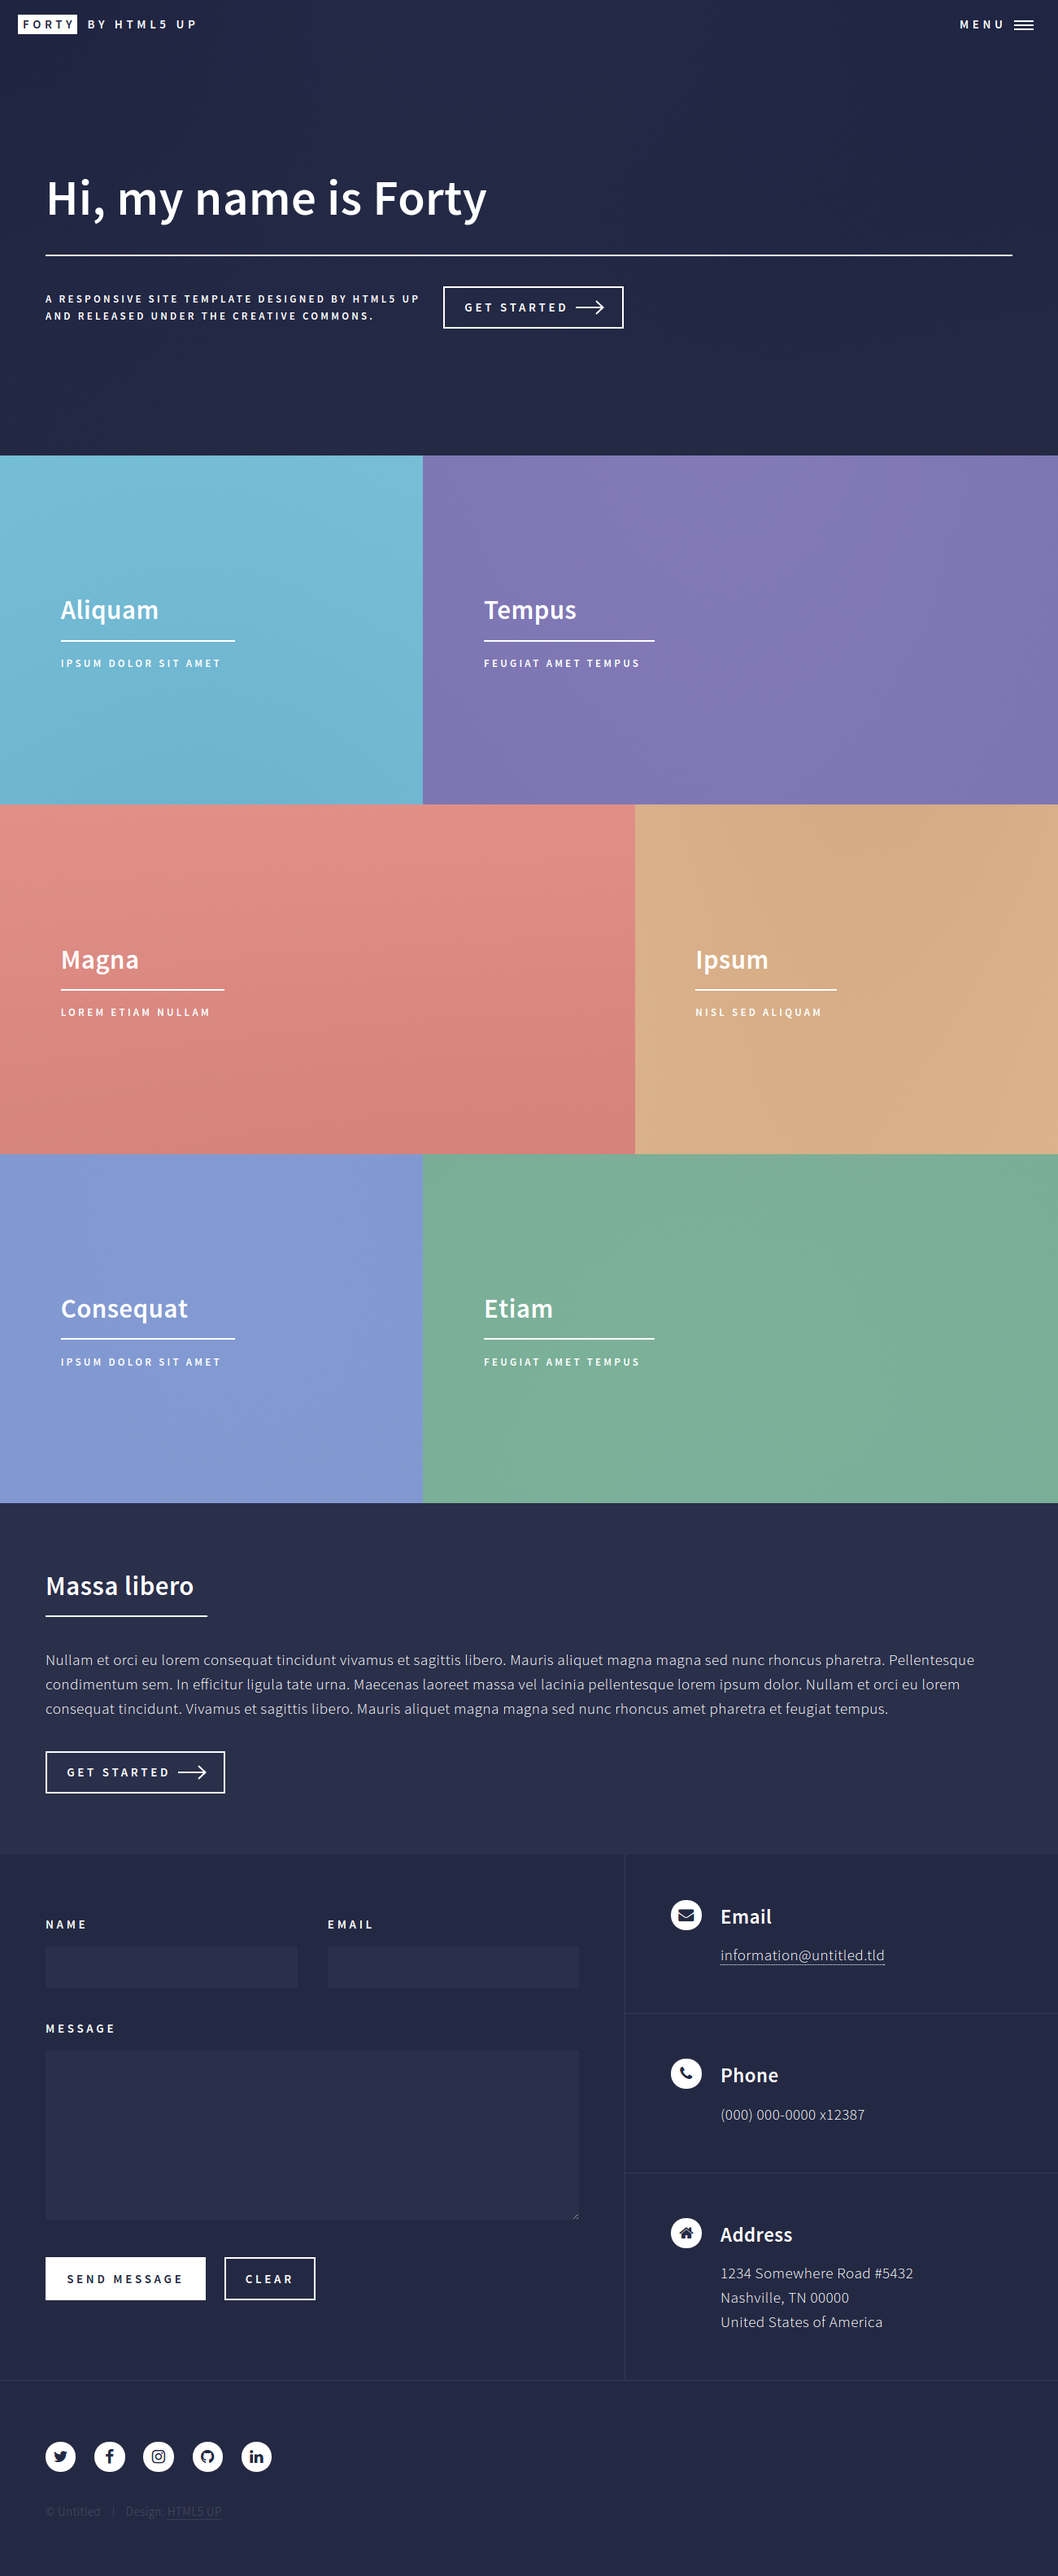
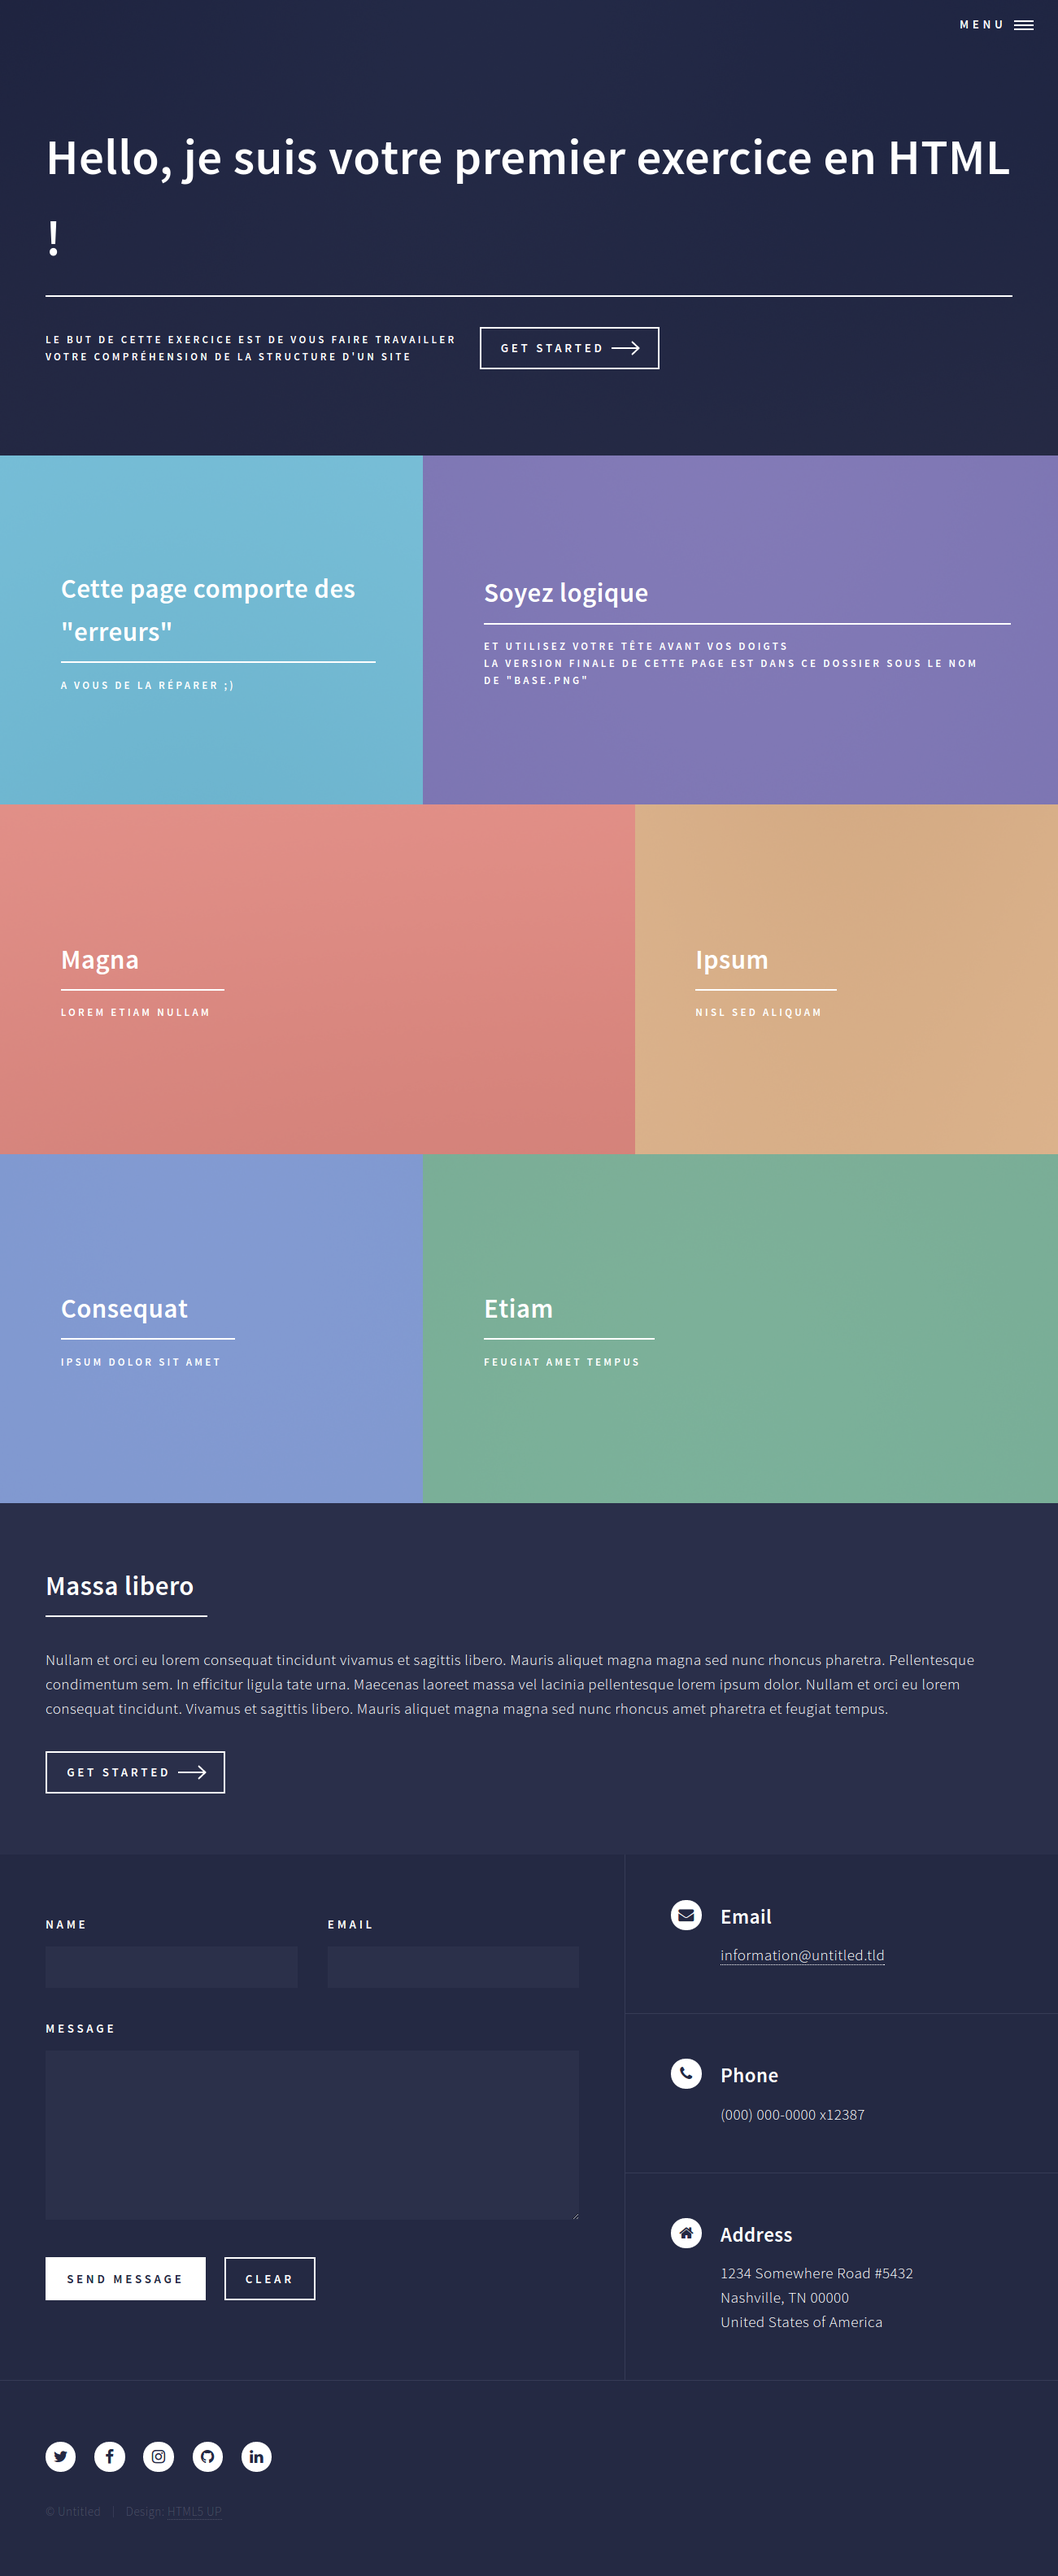
first page of exercice is done

diff --git a/index.html b/index.html
@@ -21,7 +21,6 @@
 
 				<!-- Header -->
 					<header id="header" class="alt">
-						<a href="index.html" class="logo"><strong>Forty</strong> <span>by HTML5 UP</span></a>
 						<nav>
 							<a href="#menu">Menu</a>
 						</nav>
@@ -45,11 +44,11 @@
 					<section id="banner" class="major">
 						<div class="inner">
 							<header class="major">
-								<h1>Hi, my name is Forty</h1>
+								<h1>Hello, je suis votre premier exercice en HTML !</h1>
 							</header>
 							<div class="content">
-								<p>A responsive site template designed by HTML5 UP<br />
-								and released under the Creative Commons.</p>
+								<p>Le but de cet exercice est de vous faire travailler<br />
+								votre compréhension de la structure d'un site</p>
 								<ul class="actions">
 									<li><a href="#one" class="button next scrolly">Get Started</a></li>
 								</ul>
@@ -67,8 +66,8 @@
 										<img src="images/pic01.jpg" alt="" />
 									</span>
 									<header class="major">
-										<h3><a href="landing.html" class="link">Aliquam</a></h3>
-										<p>Ipsum dolor sit amet</p>
+										<h3><a href="#" class="link">Cette page comporte des "erreurs"</a></h3>
+										<p>A vous de la réparer ;)</p>
 									</header>
 								</article>
 								<article>
@@ -76,26 +75,45 @@
 										<img src="images/pic02.jpg" alt="" />
 									</span>
 									<header class="major">
-										<h3><a href="landing.html" class="link">Tempus</a></h3>
-										<p>feugiat amet tempus</p>
+										<h3><a href="#" class="link">Soyez logique</a></h3>
+										<p>Et utilisez votre tête avant vos doigts <br>
+										Un modèle de la version de cette page est dans ce dossier sous le nom de "base.png"</p>
 									</header>
 								</article>
 								<article>
 									<span class="image">
 										<img src="images/pic03.jpg" alt="" />
 									</span>
+									<header>
+										<h3><a href="#" class="link">Partie 1</a></h3>
+										<p>Une petite facile pour commencer</p>
+									</header>
+								</article>
+								<article>
+									<span>
+										<img src="images/pic04.jpg" alt="" />
+									</span>
 									<header class="major">
-										<h3><a href="landing.html" class="link">Magna</a></h3>
-										<p>Lorem etiam nullam</p>
+										<h3><a href="#" class="link">Partie 2</a></h3>
+										<p>La dernière était facile non ?</p>
 									</header>
 								</article>
 								<article>
 									<span class="image">
-										<img src="images/pic04.jpg" alt="" />
+										<img href="images/pic05" alt="" />
 									</span>
 									<header class="major">
-										<h3><a href="landing.html" class="link">Ipsum</a></h3>
-										<p>Nisl sed aliquam</p>
+										<div><a href="#" class="link">Partie 3</a></div>
+										<h1>Oups...</h1>
+									</header>
+								</article>
+								<article>
+									<div class="image">
+										<img src="images/pic06.jpg" alt="" />
+									</div>
+									<header class="major">
+										<h3><a href="#" class="link">Partie 4</a>
+										<span>Tous en ligne !</span></h3>
 									</header>
 								</article>
 								<article>
@@ -103,17 +121,17 @@
 										<img src="images/pic05.jpg" alt="" />
 									</span>
 									<header class="major">
-										<h3><a href="landing.html" class="link">Consequat</a></h3>
-										<p>Ipsum dolor sit amet</p>
+										<!-- <div><a href="#" class="link">Partie 5</a></div> -->
+										<p>Sans commentaire</p>
 									</header>
 								</article>
-								<article>
 									<span class="image">
 										<img src="images/pic06.jpg" alt="" />
 									</span>
+								<article>
 									<header class="major">
-										<h3><a href="landing.html" class="link">Etiam</a></h3>
-										<p>Feugiat amet tempus</p>
+										<h3><a href="#" class="link">Le boss final</a><h3>
+										<p>Ou pas</p>
 									</header>
 								</article>
 							</section>
@@ -122,11 +140,11 @@
 							<section id="two">
 								<div class="inner">
 									<header class="major">
-										<h2>Massa libero</h2>
+										<h2>Ok vous avez bien avancer</h2>
 									</header>
-									<p>Nullam et orci eu lorem consequat tincidunt vivamus et sagittis libero. Mauris aliquet magna magna sed nunc rhoncus pharetra. Pellentesque condimentum sem. In efficitur ligula tate urna. Maecenas laoreet massa vel lacinia pellentesque lorem ipsum dolor. Nullam et orci eu lorem consequat tincidunt. Vivamus et sagittis libero. Mauris aliquet magna magna sed nunc rhoncus amet pharetra et feugiat tempus.</p>
+									<p>Et maintenant ? et bien c'est pas finit. Vous avez le footer à corriger aussi avant de passer à la page suivante</p>
 									<ul class="actions">
-										<li><a href="landing.html" class="button next">Get Started</a></li>
+										<li><a href="landing.html" class="button next">Allez, la suite.</a></li>
 									</ul>
 								</div>
 							</section>
@@ -146,8 +164,12 @@
 										<label for="email">Email</label>
 										<input type="text" name="email" id="email" />
 									</div>
-									<div class="field">
+									<div class="field half first">
 										<label for="message">Message</label>
+										<textarea name="message" id="message" rows="6" placeholder="Ce champ est censé avoir la largeur du formulaire, et ce message doit se détruire maintenant que vous avez lu"></textarea>
+									</div>
+									<div class="field half">
+										<label for="message">Je ne sers à rien :D</label>
 										<textarea name="message" id="message" rows="6"></textarea>
 									</div>
 									<ul class="actions">
